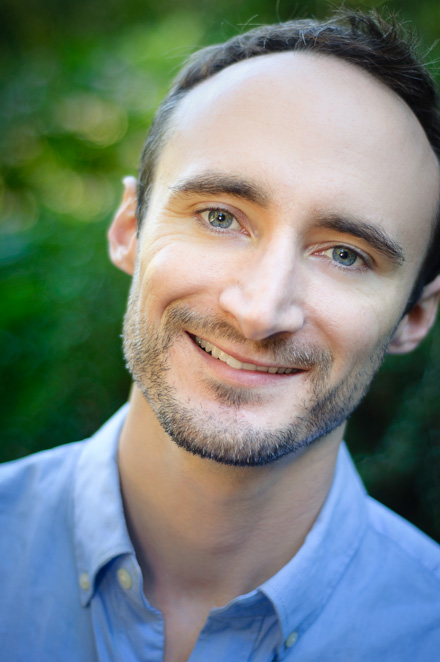
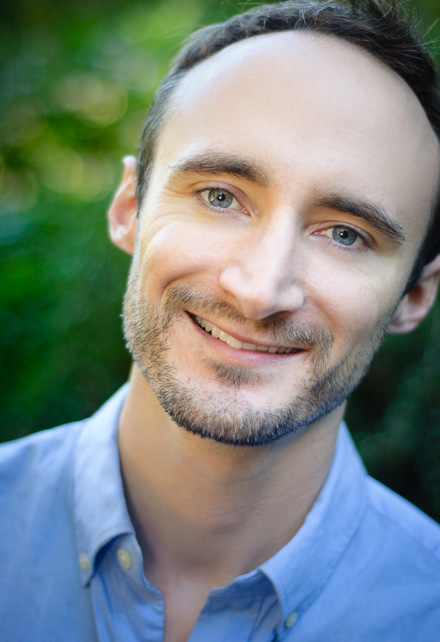
Crop headshot at top by 10px

diff --git a/index.md b/index.md
@@ -11,7 +11,7 @@ I'm a Ph.D. Candidate and Fulbright Scholar in quantitative ecology at
 in the Earth to Oceans research group, 
 Vancouver, Canada. 
 
-<img src="images/sean_anderson_2014.jpg" alt="Sean C. Anderson" width="220" height="331" class="headshot"/>
+<img src="images/sean_anderson_2014.jpg" alt="Sean C. Anderson" width="220" height="321" class="headshot"/>
 
 My [research](/cv.html#publications) broadly spans the field of quantitative ecology across taxa (e.g. sea cucumbers, reef fish, salmon, moths, grizzly bears, amphibians), ecosystems (marine, freshwater, terrestrial), methods (empirical, theoretical, experimental), spatial scale (regional, national, global) and time periods (modern, historical, paleontological).
 In my thesis work, I am interested in how we can use tools from 
